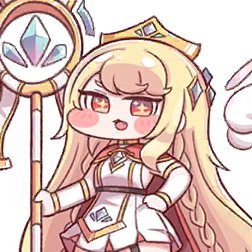
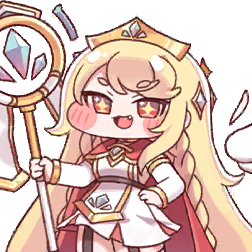
erpin asset change, new skin

diff --git a/src/locale/localize.ts b/src/locale/localize.ts
@@ -214,6 +214,8 @@ i18n
             },
             Erpin: {
               1: "하드 워킹 홀리데이",
+              2: "왕궁의 화젯거리",
+              3: "발랄한 현장학습",
             },
             Diana: {
               1: "해변의 해결사",
